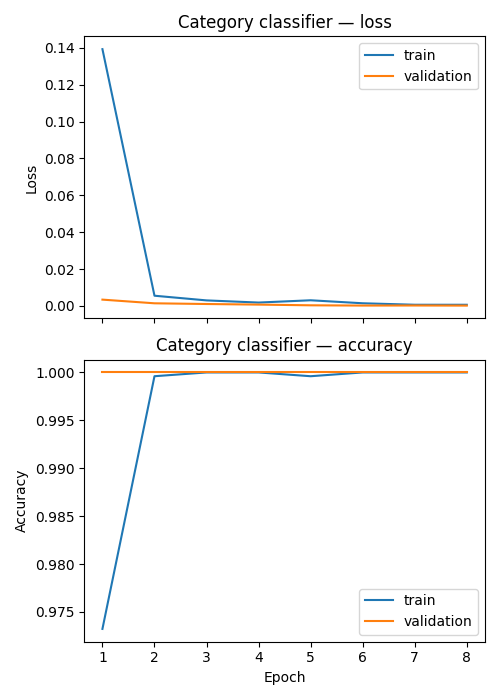
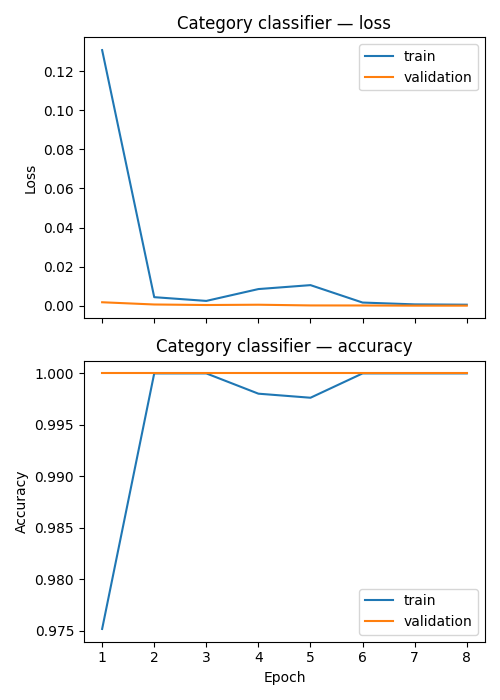
Kc branch (#9)
* update project Readme perf for 9 category types for hybrid/ensemble, PatchCore scoring: k-NN and softmax reweighting, remove duplicate section and finally update ensemble learnings

* update project Readme perf for 9 category types for hybrid/ensemble, PatchCore scoring: k-NN and softmax reweighting, remove duplicate section and finally update ensemble learnings
v2

* Remove Project_Proposal_Template.docx

* set defect type classifier color segmentation

* add video demo and Architecture Diagram

* added video demo and architecture diagram.png

* removed video script

* Add new config files and update documentation

- Add alternative architecture configs for hazelnut, tile, transistor, and wood categories (convnext_tiny, efficientnet_b0, simple_cnn, vit_b_16)
- Add generate_category_cm.py script for category confusion matrix generation
- Add scripts directory
- Update README.md with new findings and results

* Add defect classifier augmentation benchmark

* Add defect classifier ensemble comparison

* Reorganize README comparison sections

* final updates

* Add remaining category inspection support

* clarify defect-type ensemble findings and summarize notes and lessons learned

* update Readme and confusion matrices for 15 category classifications

* final defect type model perf summary improvement w data aug, category routing & ensemble

---------

diff --git a/generate_category_cm.py b/generate_category_cm.py
@@ -28,7 +28,7 @@ disp.plot(
     colorbar=False,
     xticks_rotation="vertical" if len(categories) > 4 else "horizontal",
 )
-ax.set_title("Category classifier — confusion matrix (9 categories)")
+ax.set_title(f"Category classifier — confusion matrix ({len(categories)} categories)")
 fig.tight_layout()
 
 output_path = Path("outputs/figures/category_classifier_resnet18_confusion_matrix.png")

diff --git a/README.md b/README.md
@@ -307,7 +307,7 @@ Experimental overrides append identifiers instead of overwriting the default art
 
 **What it does:** unlike the Step 2 good/defective classifier, this only looks at a single category's *defective* test/ rows and predicts which `defect_type` it is (e.g. leather: `color`/`cut`/`fold`/`glue`/`poke`), on a stratified train/val split over just those defect types.
 
-**Algorithm:** builds the configured CNN with an `N`-way head (`N` = number of defect types). It uses `defect_classifier.architecture` when present, falling back to `model.architecture`; the canonical nine-category configs currently select ConvNeXt-Tiny for defect typing, independently of the good/defective classifier architecture. Pretrained weights are controlled by `model.pretrained`. The ordinary trainer applies `get_train_transforms` (resize, random horizontal flip, tensor conversion and ImageNet normalization) to training images; validation is deterministic and unaugmented. It trains with cross-entropy + Adam for up to 10 epochs, seeds NumPy/PyTorch from `data.seed`, restores the lowest-validation-loss weights, and early-stops after `train.early_stopping_patience` (default 3) epochs without improvement. `--freeze-backbone` freezes everything except the architecture-specific classification head; `--learning-rate` and `--epochs` override the config values.
+**Algorithm:** builds the configured CNN with an `N`-way head (`N` = number of defect types). It uses `defect_classifier.architecture` when present, falling back to `model.architecture`; of the 15 canonical category configs, 12 (bottle, capsule, carpet, grid, hazelnut, leather, metal_nut, screw, tile, transistor, wood, zipper) select ConvNeXt-Tiny for defect typing, independently of the good/defective classifier architecture; `cable` selects DenseNet-121, `pill` uses a four-model ensemble (ConvNeXt-Tiny, ResNet18, EfficientNet-B0, DenseNet-121), and `toothbrush` has no `defect_classifier` section, so it falls back to `model.architecture` (ResNet18). Pretrained weights are controlled by `model.pretrained`. The ordinary trainer applies `get_train_transforms` (resize, random horizontal flip, tensor conversion and ImageNet normalization) to training images; validation is deterministic and unaugmented. It trains with cross-entropy + Adam for up to 10 epochs, seeds NumPy/PyTorch from `data.seed`, restores the lowest-validation-loss weights, and early-stops after `train.early_stopping_patience` (default 3) epochs without improvement. `--freeze-backbone` freezes everything except the architecture-specific classification head; `--learning-rate` and `--epochs` override the config values.
 
 **Augmentation distinction:** the ordinary `train_defect_classifier` command does not expand the dataset into fixed flip/quarter-turn variants. Those deterministic per-category variants are used by the separate [matched augmentation benchmark](#matched-augmentation-and-architecture-benchmark); its results should not be described as the default behavior of this training command. `--defect-focused-crops --crop-source patchcore` is a separate opt-in input-cropping option.
 
@@ -588,19 +588,23 @@ unsupervised anomaly localization.
 
 ### Category Classifier Benchmark — All 15 Categories
 
-Training on all 15 MVTec-AD categories (screw, bottle, hazelnut, carpet, leather, wood, grid, tile, transistor, cable, capsule, metal_nut, pill, toothbrush, zipper) with 5,354 total images (3,629 train / 1,725 validation) using ResNet18's superior performance for the baseline classifier yielded the following results:
+Training on all 15 MVTec-AD categories (screw, bottle, hazelnut, carpet, leather, wood, grid, tile, transistor, cable, capsule, metal_nut, pill, toothbrush, zipper) with 5,354 total images (3,629 MVTec `train/` rows split 70/30 into 2,540 train / 1,089 validation for early stopping, plus the 1,725 MVTec `test/` rows held out and evaluated once as the final test set) using a ResNet18 classifier (seed 42) given its superior performance for the baseline classifier yielded the following results:
 
 | Metric | Result |
 |---|---|
-| Validation accuracy | **1.0000** |
-| Best epoch | 6 (out of 8) |
-| Per-class precision/recall/F1 | 1.0 / 1.0 / 1.0 (all categories) |
-| Training set size | 3,629 images |
-| Validation set size | 1,725 images |
+| Test accuracy (1,725 held-out images) | **1.0000** |
+| Best validation accuracy | 1.0000 (val loss 0.000134) |
+| Best epoch | 8 (out of 8; early stopping never triggered) |
+| Per-class precision/recall/F1 | 1.0 / 1.0 / 1.0 (all 15 categories) |
+| Training set size | 2,540 images |
+| Validation set size | 1,089 images |
+| Test set size | 1,725 images |
+
+The earlier 9-category run (bottle, carpet, grid, hazelnut, leather, screw, tile, transistor, wood) also reached perfect accuracy, so adding the six extra categories (cable, capsule, metal_nut, pill, toothbrush, zipper) did not degrade object-type recognition.
 
 **Visualizations:**
-- [Training curves](outputs/figures/category_classifier_resnet18_training_curves.png): train/validation loss converge smoothly to near-zero; validation accuracy reaches 1.0 by epoch 2 and stays perfect through epoch 8.
-- [Confusion matrix](outputs/figures/category_classifier_resnet18_confusion_matrix.png): perfect diagonal matrix with zero misclassifications across all 15 categories.
+- [Training curves](outputs/figures/category_classifier_resnet18_training_curves.png): validation accuracy is already 1.0 after epoch 1 (train accuracy 0.975) and stays perfect through epoch 8, while train loss falls from 0.131 to 0.0006.
+- [Confusion matrix](outputs/figures/category_classifier_resnet18_confusion_matrix.png): 15×15 perfect diagonal on the 1,725-image test set, zero misclassifications.
 
 **Finding:** whole object categories remain visually distinct and perfectly separable even at the full 15-category scale. Unlike the supervised good/defective baseline (which hits perfect metrics due to a tiny held-out split drawn from the same test set), this category classifier achieves 100% accuracy on the object-type task because the MVTec categories have massive visual differences (bottle's cylindrical top vs. screw's hexagonal head vs. carpet's flat textile surface, etc.) — this is a genuinely easy classification problem with clear natural clustering.
 
@@ -1166,6 +1170,18 @@ Reproduce the run with `python -m src.models.run_defect_classifier_cv --category
 - The historical 0.913 / 0.910 category-routed aggregate above used the old, post-hoc Bottle/Cable/Pill DenseNet route on one split. It is not the final model set and must not be compared as if it were measured under this repeated-CV protocol.
 
 **Recommendation:** use augmented ConvNeXt-Tiny as the single-model default, DenseNet121 for Cable, and a four-member equal-soft-voting ensemble for Pill. Keep the screw focused-crop setting unchanged. Bottle stays on ConvNeXt-Tiny. The other categories retain their existing ConvNeXt-Tiny single-model choice; those categories were not included in this focused repeated-CV run, so their evidence remains the earlier single-split comparison. CV results here are exploratory because the architecture/strategy choice is made after comparing these same repeated splits, and the repeats reuse the same images. Avoid claiming statistical significance or treating the repeated prediction totals as independent samples.
+
+**Final performance summary — ResNet18 baseline vs. final category-routed defect-type classifier.** Both rows use the same seed-42 70/30 stratified validation split (373 images over the 14 scored categories; Toothbrush is N/A). The final route is augmented ConvNeXt-Tiny by default, DenseNet121 for Cable, and the four-member equal-soft-vote ensemble for Pill. Mean ± SD is the population SD across categories.
+
+| Model | Mean val accuracy ± SD | Mean macro-F1 ± SD | Pooled correct (373 images) |
+|---|---:|---:|---:|
+| ResNet18, no augmentation (baseline) | 0.659 ± 0.245 | 0.651 ± 0.250 | 236 (63.3%) |
+| **Final category-routed (ConvNeXt-Tiny aug. default + DenseNet121 Cable + 4-model soft-vote Pill)** | **0.913 ± 0.072** | **0.909 ± 0.073** | **338 (90.6%)** |
+| Improvement | **+25.4 points** | **+25.8 points** | **+102 images (+27.3 points)** |
+
+Per-category change (accuracy, baseline → final): Screw 0.194 → 0.944 (+75.0), Grid 0.222 → 1.000 (+77.8), Pill 0.372 → 0.814 (+44.2), Zipper 0.611 → 0.889 (+27.8), Capsule 0.485 → 0.758 (+27.3), Transistor 0.667 → 0.917 (+25.0), Wood 0.667 → 0.889 (+22.2), Cable 0.714 → 0.893 (+17.9), Carpet 0.778 → 0.926 (+14.8), Metal nut 0.857 → 1.000 (+14.3), Tile 0.923 → 1.000 (+7.7), Leather 0.929 → 1.000 (+7.1), Hazelnut 0.905 → 0.905 (0.0), Bottle 0.895 → 0.842 (−5.3, one image). The SD across categories also falls from 0.245 to 0.072, i.e. performance is far more uniform, with 10 of 14 categories now at ≥ 0.889.
+
+Caveats: the final row reuses single-split values (Pill's 0.814 / 0.820 is the equal soft vote on that split; the repeated-CV Pill estimate is lower at 0.766 / 0.778), and the architecture choices were made after seeing validation results, so the final row is optimistic and not an independent test estimate. The gain also bundles augmentation (more optimizer updates), the architecture change, and the Cable/Pill routing. The category-routed score assumes the object category is known; the [category classifier](#supervised-category-classifier) scored 1.000 on the 1,725-image test set, so routing errors are not expected to change it.
 
 **Deployment status:** the Streamlit configs now use the revised category choices: DenseNet121 for Cable, equal soft voting for Pill, and ConvNeXt-Tiny single models otherwise (preserving screw's focused-crop configuration). The Cable DenseNet121 and Capsule/Metal nut/Zipper ConvNeXt-Tiny seed-42 checkpoints and metadata are available at the single-model loader paths; they were copied from the matching `ensemble_members` artifacts. These files under `models/checkpoints/` and `outputs/metrics/` are gitignored generated artifacts, so regenerate the member models and restore these copies on a fresh checkout. The Pill equal-soft-vote members also need to be present under `ensemble_members/`. The configs and inference loader were smoke-tested against the local artifacts; this is a category-specific prediction policy, not a globally deployed ensemble.
 
